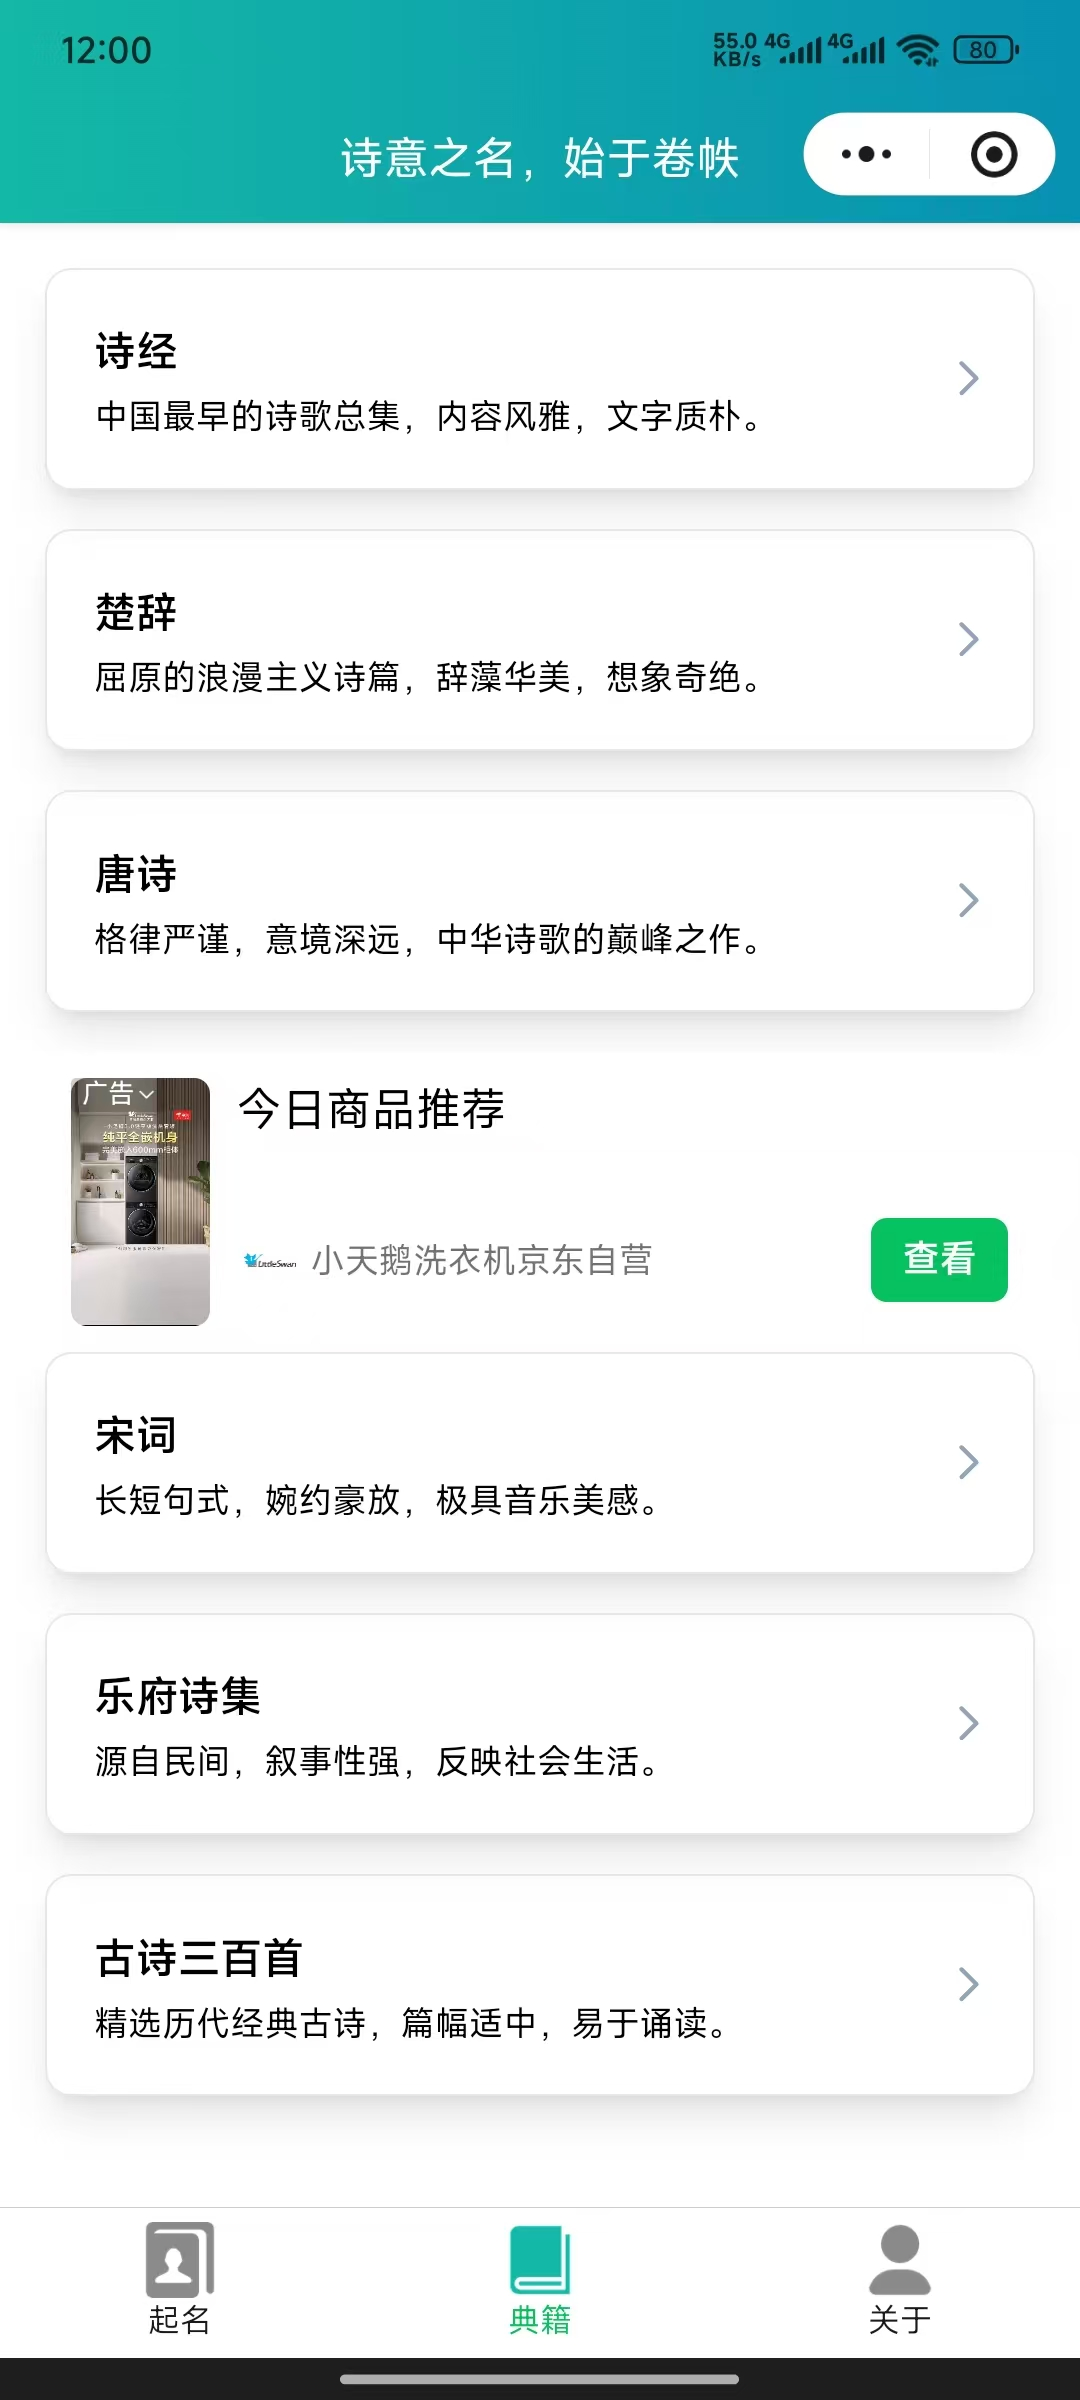
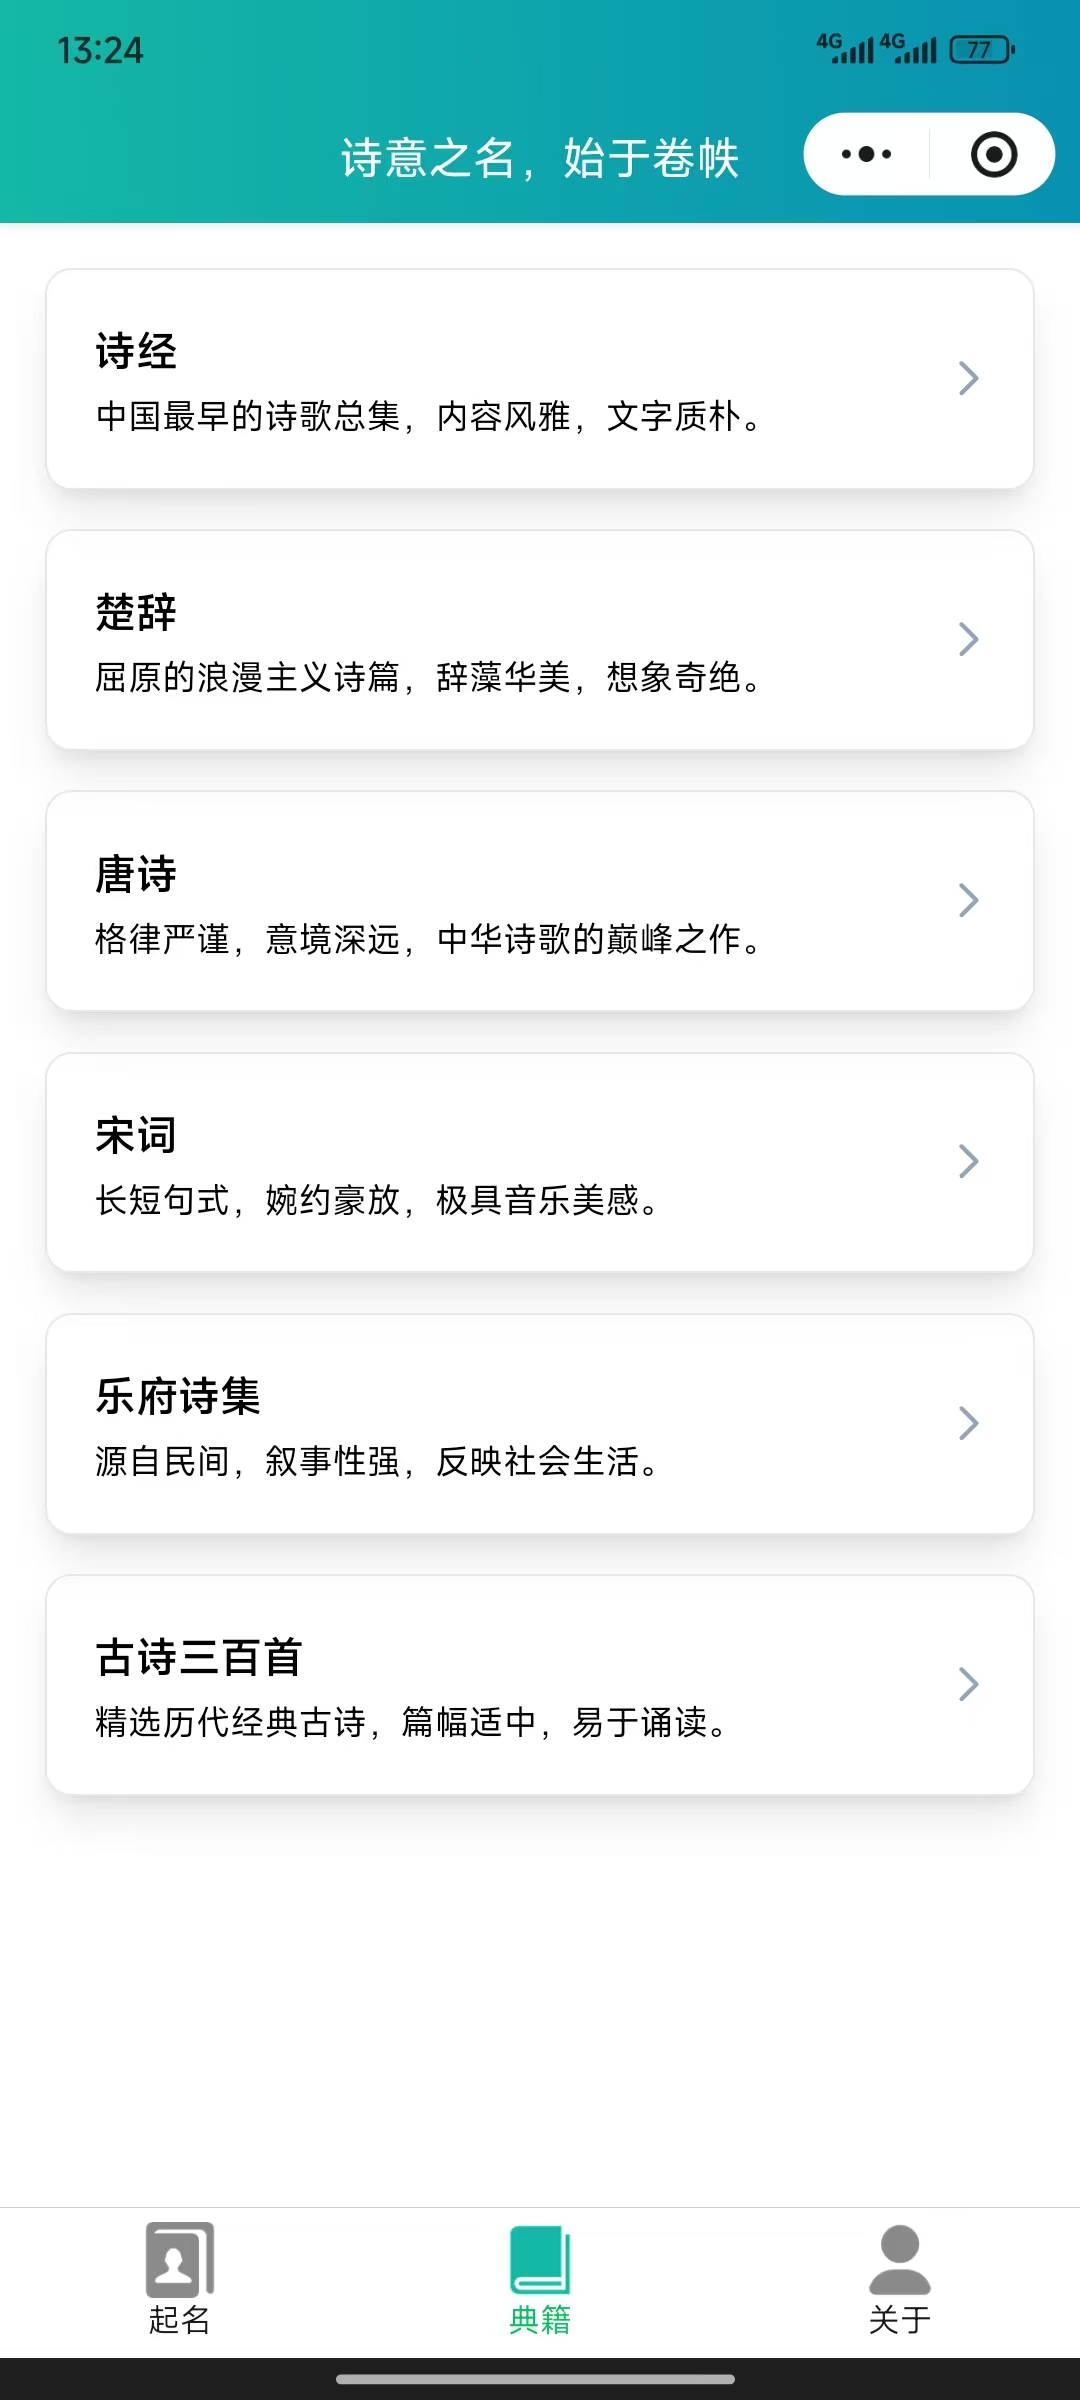
update

diff --git a/README.md b/README.md
@@ -3,10 +3,10 @@
 > 起名小程序
 <p>从诗经、楚辞、唐诗宋词、乐府诗集、古诗三百首、著名楚辞等古典文籍中
 <p align='center'>
-  <img src='./images/qrcode.jpg'>
+  <img src='./images/qrcode.jpg' height="200">
 </p>
 
-## 特别感谢
+## 特别鸣谢
 数据源来自 [gushi_namer](https://github.com/holynova/gushi_namer)。
 
 ## 开发经历
@@ -21,7 +21,7 @@
 > * gitee 仓库地址 [https://gitee.com/fthux/nomely](https://gitee.com/fthux/nomely)。
 
 ## UI生成
-`UI` 页面基本上全部由 `Gemini` 生成，完整的 `APP` 链接可访问 [aistudio](https://ai.studio/apps/drive/1P7XoluwC5s7CL1xeVv8NeXWjTQ_OwvHf)。贴几张 `Gemini` 生成的 `UI` 和小程序实现的 `UI`：
+`UI` 页面基本上全部由 `Gemini` 生成，小程序版本做了一些小的UI调整和适配，完整的 `Gemini APP` 实现可访问 [Google AI Studio](https://ai.studio/apps/drive/1P7XoluwC5s7CL1xeVv8NeXWjTQ_OwvHf)。贴几张 `Gemini` 生成的 `UI` 和小程序实现的 `UI`：
 
 ### `Gemini` 实现
 <div>
